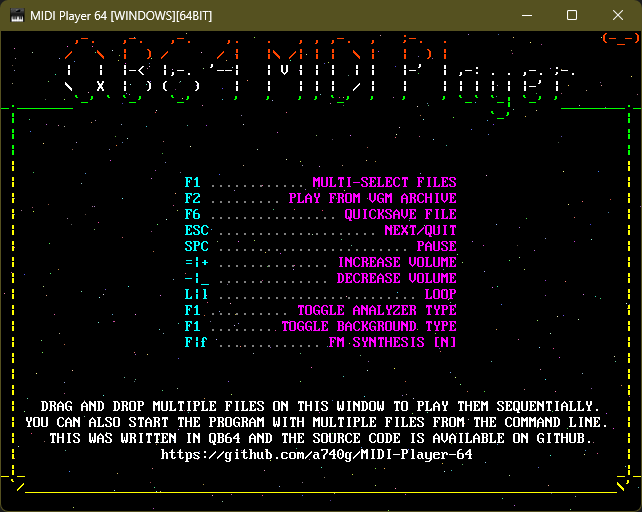
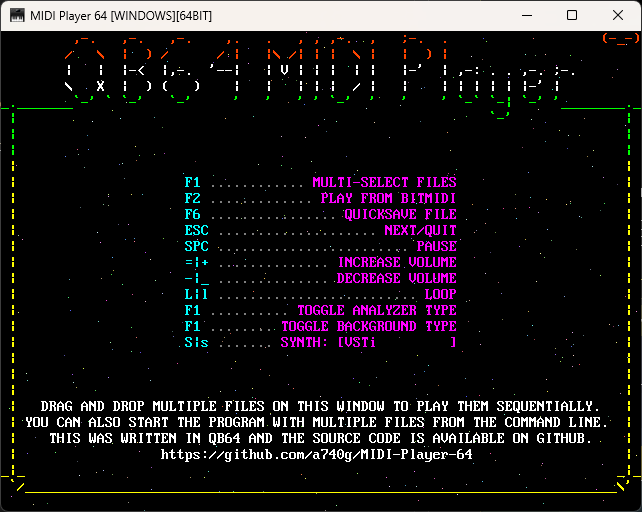
Update README.md

diff --git a/README.md b/README.md
@@ -1,13 +1,17 @@
 # MIDI PLAYER 64
 
-This is a [QB64-PE](https://github.com/QB64-Phoenix-Edition/QB64pe) MIDI player and library based on:
+This is a [QB64-PE](https://www.qb64phoenix.com/) MIDI player and library based on:
 
-- [TinySoundFont](https://github.com/schellingb/TinySoundFont) (a software synthesizer using SoundFont2)
-- [TinyMidiLoader](https://github.com/schellingb/TinySoundFont) (a minimalistic SMF parser)
-- [Opal](https://www.3eality.com/productions/reality-adlib-tracker) (an OPL3 emulator that is part of the Reality Adlib Tracker public domain player code)
-- [ymfmidi](https://github.com/devinacker/ymfmidi) (a MIDI player based on the OPL3 emulation core from ymfm)
+- [foo_midi](https://github.com/stuerp/foo_midi) (heavily modified)
+- [libmidi](https://github.com/stuerp/libmidi) (modified)
+- [Opal](https://www.3eality.com/productions/reality-adlib-tracker) (refactored)
+- [primesynth](https://github.com/mosmeh/primesynth) (heavily modified)
+- [stb_vorbis](https://github.com/nothings/stb)
+- [TinySoundFont](https://github.com/schellingb/TinySoundFont)
+- [ymfmidi](https://github.com/devinacker/ymfmidi) (heavily modified to work with `Opal`)
 
 ---
+
 ![Screenshot 1](screenshots/screenshot1.png)
 ![Screenshot 2](screenshots/screenshot2.png)
 ![Screenshot 3](screenshots/screenshot3.png)
@@ -15,10 +19,11 @@ This is a [QB64-PE](https://github.com/QB64-Phoenix-Edition/QB64pe) MIDI player 
 ## FEATURES
 
 - Easy plug-&-play API optimized for demos & games
-- Cross-platform (works on Windows, Linux & macOS)
+- Works on Windows, Linux & macOS (VSTi player is only available on Windows)
 - Everything is statically linked (no shared library dependency)
 - Demo player that shows how to use the library
-- SoundFont and FM Synthesis support
+- Multiple synthesizers: `Opal + ymfmidi`, `primesynth`, `TinySoundFont` & `VSTi`
+- Supports MUS, HMI, HMP, HMQ, KAR, LDS, MDS, MIDS, RCP, R36, G18, G36, RMI, MID, MIDI, XFM, XMI file formats
 
 ## USAGE
 
@@ -31,32 +36,29 @@ This is a [QB64-PE](https://github.com/QB64-Phoenix-Edition/QB64pe) MIDI player 
 ## API
 
 ```VB
-Function MIDI_Initialize%% (useOPL3 As Byte)
-Function MIDI_IsInitialized%%
-Sub MIDI_Finalize
-Function MIDI_LoadTuneFromFile%% (fileName As String)
-Function MIDI_LoadTuneFromMemory%% (buffer As String)
-Function MIDI_IsTuneLoaded%%
-Sub MIDI_Play
-Sub MIDI_Stop
-Function MIDI_IsPlaying%%
-Sub MIDI_Loop (ByVal isLooping As Byte)
-Function MIDI_IsLooping%%
-Sub MIDI_Pause (state As Byte)
-Function MIDI_IsPaused%%
-Function MIDI_GetVolume!
-Sub MIDI_SetVolume (ByVal volume As Single)
-Function MIDI_GetTotalTime#
-Function MIDI_GetCurrentTime#
-Function MIDI_GetActiveVoices~&
-Function MIDI_IsFMSynthesis%%
-Sub MIDI_Update
+SUB MIDI_Finalize
+FUNCTION MIDI_GetActiveVoices~&
+FUNCTION MIDI_GetCurrentTime#
+FUNCTION MIDI_GetTotalTime#
+FUNCTION MIDI_GetVolume!
+FUNCTION MIDI_Initialize%% (useOPL3 AS _BYTE)
+FUNCTION MIDI_IsLooping%%
+FUNCTION MIDI_IsPaused%%
+FUNCTION MIDI_IsPlaying%%
+FUNCTION MIDI_LoadTuneFromFile%% (fileName AS STRING)
+FUNCTION MIDI_LoadTuneFromMemory%% (buffer AS STRING)
+SUB MIDI_Loop (ByVal isLooping AS _BYTE)
+SUB MIDI_Pause (state AS _BYTE)
+SUB MIDI_Play
+SUB MIDI_SetSynth (fileNameOrBuffer AS STRING, synthType AS _UNSIGNED LONG)
+SUB MIDI_SetVolume (volume AS SINGLE)
+SUB MIDI_Stop
+SUB MIDI_Update
 ```
 
 ## NOTES
 
 - This requires the latest version of [QB64-PE](https://github.com/QB64-Phoenix-Edition/QB64pe/releases/latest)
-- Mixing this with QB64-PE's [$MIDISOUNDFONT](https://qb64phoenix.com/qb64wiki/index.php/$MIDISOUNDFONT) will not work
 - When you clone a repository that contains submodules, the submodules are not automatically cloned by default
 - You will need to use the `git submodule update --init --recursive` to initialize, fetch and checkout git submodules
 
